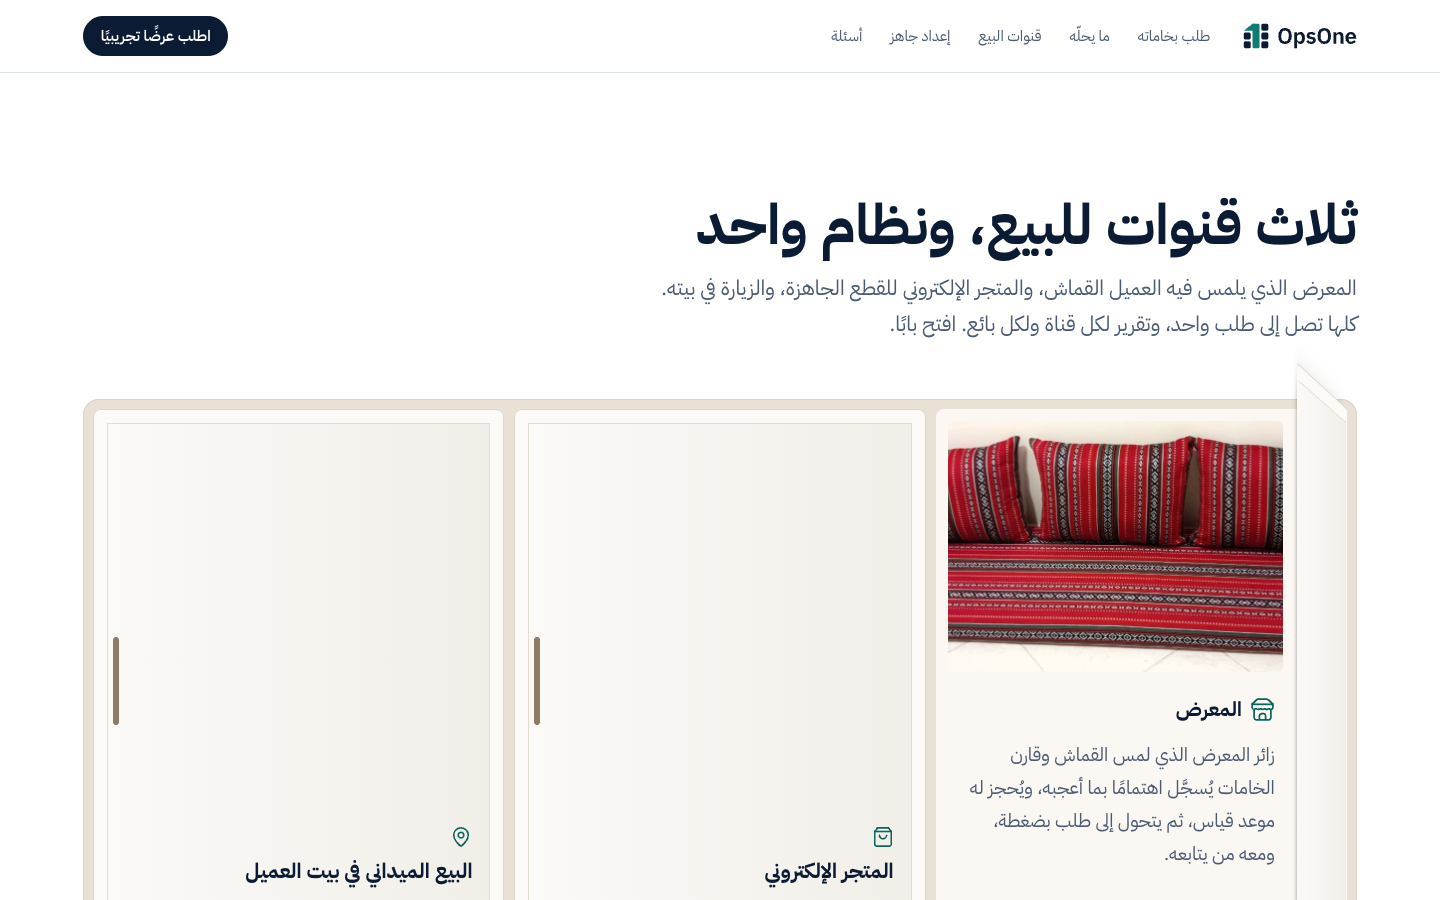
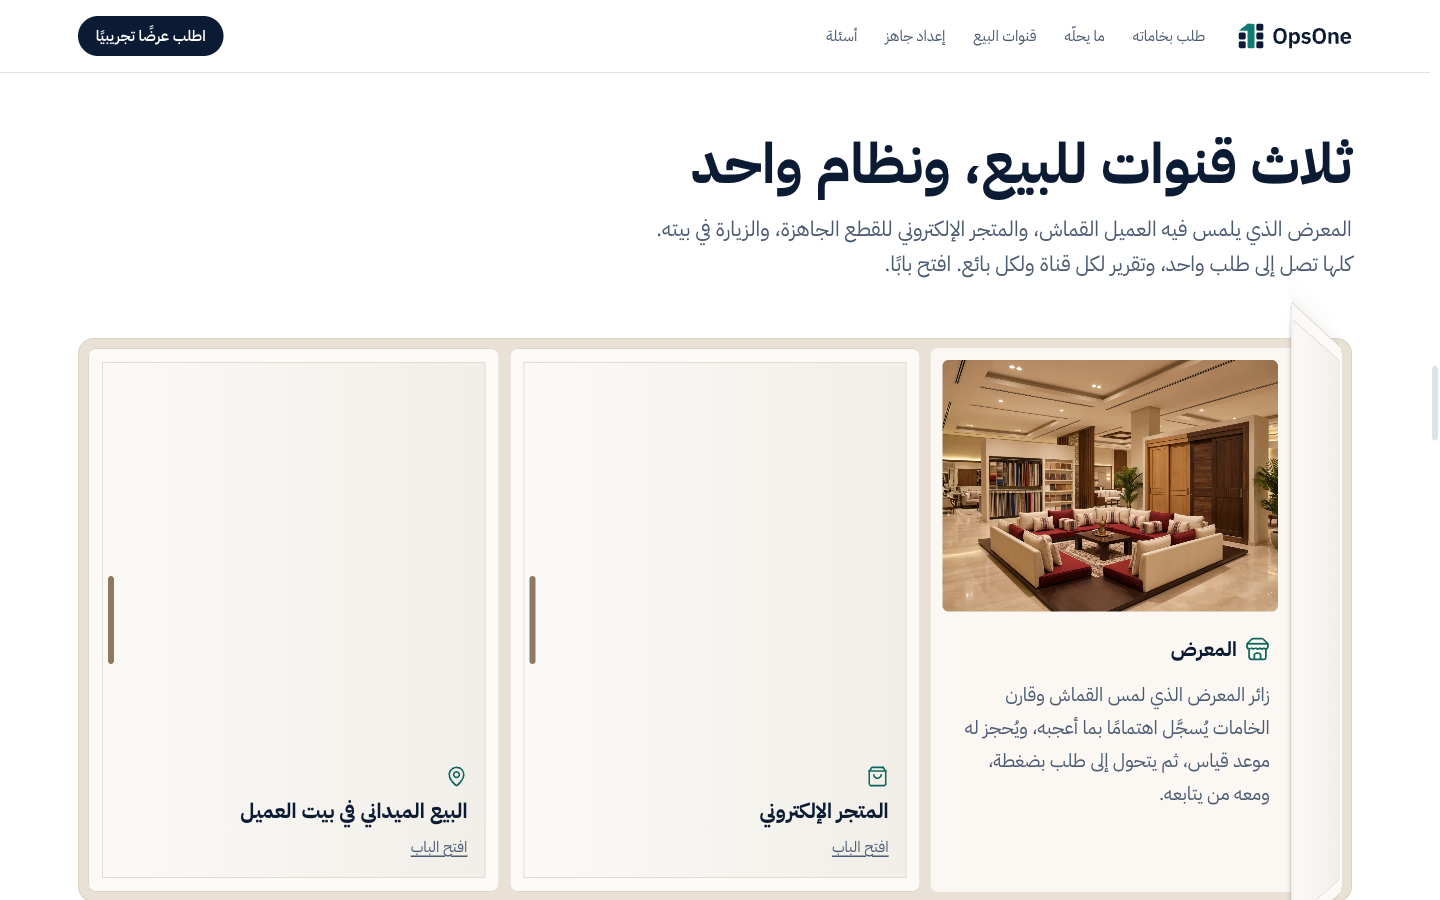
feat(marketing): custom-furniture and fit-out images from Magnific
Replace the page photos on two sector pages with AI images generated on
the Magnific account (Nano Banana 2.1, 2k, 5 x 65 = 325 credits), in the
pattern of the kitchens page:

- custom-furniture: a Saudi villa dressing room (hero, replacing the SVG
  drawing), a majlis and fabric showroom, ready-made pieces on a shelf,
  and a man in a thobe measuring a wardrobe niche.
- villa-fit-out: a finished villa living area with a curved gypsum
  ceiling (hero). Its channels section shows HTML fragments, so no other
  image was needed.

WebP in several widths, OG images recomposed, credits.json updated, old
images removed, home page cards pointed at the new heroes, pages rebuilt
and screenshots refreshed at 1440 and 375.

diff --git a/marketing/site-next/solutions/custom-furniture/index.html b/marketing/site-next/solutions/custom-furniture/index.html
@@ -17,7 +17,7 @@
 <meta property="og:image" content="https://www.opsone.example/solutions/custom-furniture/og-custom-furniture.jpg">
 <meta property="og:image:width" content="1200">
 <meta property="og:image:height" content="630">
-<meta property="og:image:alt" content="OpsOne لمعارض الخزائن والأثاث حسب الطلب: رسم واجهة غرفة ملابس وخط الطلب من القياس إلى التركيب">
+<meta property="og:image:alt" content="OpsOne لمعارض الخزائن والأثاث حسب الطلب: غرفة ملابس مفصّلة في فيلا سعودية وعنوان الصفحة">
 <meta name="twitter:card" content="summary_large_image">
 <meta name="twitter:title" content="برنامج إدارة معارض الخزائن وغرف الملابس والأثاث حسب الطلب | OpsOne">
 <meta name="twitter:description" content="OpsOne لمعارض الخزائن وغرف الملابس والأبواب الخشبية والمجالس والتنجيد: زيارة القياس، واختيار الخامة والقماش، والتصميم بنسخه، وعرض السعر والعقد الموقّع، والعربون، وأمر المصنع، ثم التوصيل والتركيب بتوقيع العميل.">
@@ -29,7 +29,7 @@
 <link rel="manifest" href="../../site.webmanifest">
 <link rel="preload" href="../../assets/fonts/IBMPlexSansArabic-Bold.woff2" as="font" type="font/woff2" crossorigin>
 <link rel="preload" href="../../assets/fonts/IBMPlexSansArabic-Regular.woff2" as="font" type="font/woff2" crossorigin>
-<link rel="preload" as="image" href="img/dressing-elevation.svg" imagesrcset="img/dressing-elevation.svg 1400w" imagesizes="(max-width: 760px) 100vw, 45vw" fetchpriority="high">
+<link rel="preload" as="image" href="img/furniture-hero-1200.webp" imagesrcset="img/furniture-hero-820.webp 820w, img/furniture-hero-1200.webp 1200w, img/furniture-hero-1600.webp 1600w" imagesizes="(max-width: 760px) 100vw, 45vw" fetchpriority="high">
 <link rel="stylesheet" href="../../styles.css">
 <link rel="stylesheet" href="../sector.css">
 <link rel="stylesheet" href="furniture.css">
@@ -63,7 +63,7 @@
         <a class="btn btn--quiet" href="#order">شاهد طلبًا بخاماته</a>
       </div>
     </div>
-    <figure class="shero__photo"><img src="img/dressing-elevation.svg" srcset="img/dressing-elevation.svg 1400w" sizes="(max-width: 760px) 100vw, 45vw" width="1400" height="1050" alt="رسم واجهة غرفة ملابس مفصّلة: تعليق للثياب، وأدراج وسطية بسطح خشبي، وأرفف خلف باب زجاجي منزلق" fetchpriority="high" decoding="async"></figure>
+    <figure class="shero__photo"><img src="img/furniture-hero-1200.webp" srcset="img/furniture-hero-820.webp 820w, img/furniture-hero-1200.webp 1200w, img/furniture-hero-1600.webp 1600w" sizes="(max-width: 760px) 100vw, 45vw" width="1600" height="1195" alt="غرفة ملابس مفصّلة في فيلا سعودية: خزائن بقشرة البلوط وأبواب زجاجية مضاءة، وثياب بيضاء معلّقة، وجزيرة أدراج بسطح خشب الجوز، ونافذة بحاجب هندسي" fetchpriority="high" decoding="async"></figure>
   </div>
   <div class="route" id="route">
     <div class="stations stations--6" role="group" aria-label="رحلة طلب الأثاث ORD-2026-00318" id="stations" style="--n:6">
@@ -157,9 +157,9 @@
   <div class="wrap">
     <div class="sec-head"><h2 class="head" id="channels-title">ثلاث قنوات للبيع، ونظام واحد</h2><p class="lead">المعرض الذي يلمس فيه العميل القماش، والمتجر الإلكتروني للقطع الجاهزة، والزيارة في بيته. كلها تصل إلى طلب واحد، وتقرير لكل قناة ولكل بائع. افتح بابًا.</p></div>
     <ul class="robe">
-      <li class="robe__bay is-open"><div class="robe__inside" id="bay-showroom"><img src="img/majlis-sadu-1000.jpg" width="1000" height="505" alt="مجلس أرضي ووسائد بقماش السدو الأحمر" loading="lazy" decoding="async"><h3><svg class="ic" aria-hidden="true"><use href="#i-store"/></svg>المعرض</h3><p>زائر المعرض الذي لمس القماش وقارن الخامات يُسجَّل اهتمامًا بما أعجبه، ويُحجز له موعد قياس، ثم يتحول إلى طلب بضغطة، ومعه من يتابعه.</p></div><button class="robe__door" type="button" aria-expanded="true" aria-controls="bay-showroom"><span class="robe__panel" aria-hidden="true"></span><span class="robe__handle" aria-hidden="true"></span><span class="robe__label"><svg class="ic" aria-hidden="true"><use href="#i-store"/></svg><b>المعرض</b><small>أغلق الباب</small></span></button></li>
-      <li class="robe__bay"><div class="robe__inside" id="bay-store"><img src="img/fabric-swatches-1000.jpg" width="1000" height="750" alt="عينات أقمشة تنجيد بألوان ونقوش مختلفة" loading="lazy" decoding="async"><h3><svg class="ic" aria-hidden="true"><use href="#i-shopping-bag"/></svg>المتجر الإلكتروني</h3><p>القطع الجاهزة والإكسسوارات تُباع من المخزون نفسه بدفع إلكتروني، ولها مقاسات وألوان. وترسل لعميلك رابط سلة جاهزة أو كوبونًا.</p></div><button class="robe__door" type="button" aria-expanded="false" aria-controls="bay-store"><span class="robe__panel" aria-hidden="true"></span><span class="robe__handle" aria-hidden="true"></span><span class="robe__label"><svg class="ic" aria-hidden="true"><use href="#i-shopping-bag"/></svg><b>المتجر الإلكتروني</b><small>افتح الباب</small></span></button></li>
-      <li class="robe__bay"><div class="robe__inside" id="bay-home"><img src="img/tape-1000.jpg" width="1000" height="750" alt="شريط قياس للخياطة والتنجيد على قماش رمادي" loading="lazy" decoding="async"><h3><svg class="ic" aria-hidden="true"><use href="#i-map-pin"/></svg>البيع الميداني في بيت العميل</h3><p>يوزّع المشرف الفرصة أو طلب الموعد على بائع ميداني، فيزور العميل في بيته، ويسجّل المقاسات وصور المكان من جواله، ثم يرسل عرض السعر ورابط توقيع العقد. ويُحسب الطلب على قناة البيع الميداني، وعمولته للبائع.</p></div><button class="robe__door" type="button" aria-expanded="false" aria-controls="bay-home"><span class="robe__panel" aria-hidden="true"></span><span class="robe__handle" aria-hidden="true"></span><span class="robe__label"><svg class="ic" aria-hidden="true"><use href="#i-map-pin"/></svg><b>البيع الميداني في بيت العميل</b><small>افتح الباب</small></span></button></li>
+      <li class="robe__bay is-open"><div class="robe__inside" id="bay-showroom"><img src="img/furniture-showroom-1200.webp" width="1200" height="896" alt="معرض أثاث فيه جلسة مجلس بقماش كريمي وأحمر ووسائد بنقش السدو، وعينات أقمشة وخشب، وخزانة عرض بأبواب خشبية" loading="lazy" decoding="async"><h3><svg class="ic" aria-hidden="true"><use href="#i-store"/></svg>المعرض</h3><p>زائر المعرض الذي لمس القماش وقارن الخامات يُسجَّل اهتمامًا بما أعجبه، ويُحجز له موعد قياس، ثم يتحول إلى طلب بضغطة، ومعه من يتابعه.</p></div><button class="robe__door" type="button" aria-expanded="true" aria-controls="bay-showroom"><span class="robe__panel" aria-hidden="true"></span><span class="robe__handle" aria-hidden="true"></span><span class="robe__label"><svg class="ic" aria-hidden="true"><use href="#i-store"/></svg><b>المعرض</b><small>أغلق الباب</small></span></button></li>
+      <li class="robe__bay"><div class="robe__inside" id="bay-store"><img src="img/furniture-store-1200.webp" width="1200" height="896" alt="قطع جاهزة على رف خشبي: وسائد مجلس بأقمشة مختلفة، وطاولة جانبية صغيرة، ومقابض خزائن نحاسية وسوداء، ولفائف قماش تنجيد" loading="lazy" decoding="async"><h3><svg class="ic" aria-hidden="true"><use href="#i-shopping-bag"/></svg>المتجر الإلكتروني</h3><p>القطع الجاهزة والإكسسوارات تُباع من المخزون نفسه بدفع إلكتروني، ولها مقاسات وألوان. وترسل لعميلك رابط سلة جاهزة أو كوبونًا.</p></div><button class="robe__door" type="button" aria-expanded="false" aria-controls="bay-store"><span class="robe__panel" aria-hidden="true"></span><span class="robe__handle" aria-hidden="true"></span><span class="robe__label"><svg class="ic" aria-hidden="true"><use href="#i-shopping-bag"/></svg><b>المتجر الإلكتروني</b><small>افتح الباب</small></span></button></li>
+      <li class="robe__bay"><div class="robe__inside" id="bay-home"><img src="img/furniture-measure-1200.webp" width="1200" height="896" alt="يدا رجل بكمّي ثوب أبيض تمدّان شريط قياس داخل تجويف جدار لخزانة مدمجة، وبجانبه جهاز لوحي برسم الخزانة" loading="lazy" decoding="async"><h3><svg class="ic" aria-hidden="true"><use href="#i-map-pin"/></svg>البيع الميداني في بيت العميل</h3><p>يوزّع المشرف الفرصة أو طلب الموعد على بائع ميداني، فيزور العميل في بيته، ويسجّل المقاسات وصور المكان من جواله، ثم يرسل عرض السعر ورابط توقيع العقد. ويُحسب الطلب على قناة البيع الميداني، وعمولته للبائع.</p></div><button class="robe__door" type="button" aria-expanded="false" aria-controls="bay-home"><span class="robe__panel" aria-hidden="true"></span><span class="robe__handle" aria-hidden="true"></span><span class="robe__label"><svg class="ic" aria-hidden="true"><use href="#i-map-pin"/></svg><b>البيع الميداني في بيت العميل</b><small>افتح الباب</small></span></button></li>
     </ul>
   </div>
 </section>

diff --git a/marketing/site-next/solutions/villa-fit-out/index.html b/marketing/site-next/solutions/villa-fit-out/index.html
@@ -17,7 +17,7 @@
 <meta property="og:image" content="https://www.opsone.example/solutions/villa-fit-out/og-villa-fit-out.jpg">
 <meta property="og:image:width" content="1200">
 <meta property="og:image:height" content="630">
-<meta property="og:image:alt" content="OpsOne لشركات التشطيب: سقف جبس بإنارة مخفية وخط المشروع من المعاينة إلى الاستلام">
+<meta property="og:image:alt" content="OpsOne لشركات التشطيب: صالة فيلا منفّذة بسقف جبس منحني وإنارة مخفية، وعنوان الصفحة">
 <meta name="twitter:card" content="summary_large_image">
 <meta name="twitter:title" content="برنامج إدارة شركات التشطيب وتجهيز الفلل والمكاتب | OpsOne">
 <meta name="twitter:description" content="OpsOne لشركات تصميم وتشطيب الفلل والشقق وتجهيز المكاتب والمحلات: المعاينة، واعتماد التصميم بنسخه، وعرض السعر بجدول الكميات، والعقد الموقّع إلكترونيًا، ودفعات مربوطة بمراحل التنفيذ، وأوامر الموردين والمصنع، ثم الاستلام بالصور وتوقيع العميل.">
@@ -29,7 +29,7 @@
 <link rel="manifest" href="../../site.webmanifest">
 <link rel="preload" href="../../assets/fonts/IBMPlexSansArabic-Bold.woff2" as="font" type="font/woff2" crossorigin>
 <link rel="preload" href="../../assets/fonts/IBMPlexSansArabic-Regular.woff2" as="font" type="font/woff2" crossorigin>
-<link rel="preload" as="image" href="img/fitout-hero-1400.jpg" imagesrcset="img/fitout-hero-820.jpg 820w, img/fitout-hero-1400.jpg 1400w" imagesizes="(max-width: 760px) 100vw, 45vw" fetchpriority="high">
+<link rel="preload" as="image" href="img/fitout-hero-1200.webp" imagesrcset="img/fitout-hero-820.webp 820w, img/fitout-hero-1200.webp 1200w, img/fitout-hero-1600.webp 1600w" imagesizes="(max-width: 760px) 100vw, 45vw" fetchpriority="high">
 <link rel="stylesheet" href="../../styles.css">
 <link rel="stylesheet" href="../sector.css">
 <link rel="stylesheet" href="villa.css">
@@ -63,7 +63,7 @@
         <a class="btn btn--quiet" href="#order">شاهد مشروع فيلا</a>
       </div>
     </div>
-    <figure class="shero__photo"><img src="img/fitout-hero-1400.jpg" srcset="img/fitout-hero-820.jpg 820w, img/fitout-hero-1400.jpg 1400w" sizes="(max-width: 760px) 100vw, 45vw" width="1400" height="1050" alt="سقف جبس بورد بمستويات منحنية وإنارة مخفية وسبوتات" fetchpriority="high" decoding="async"></figure>
+    <figure class="shero__photo"><img src="img/fitout-hero-1200.webp" srcset="img/fitout-hero-820.webp 820w, img/fitout-hero-1200.webp 1200w, img/fitout-hero-1600.webp 1600w" sizes="(max-width: 760px) 100vw, 45vw" width="1600" height="1195" alt="صالة فيلا سعودية بعد التشطيب: سقف جبس بمستويات منحنية وإنارة مخفية وسبوتات، وجدار بألواح ترافرتين، وتكسية بشرائح خشب، ونوافذ عالية بحاجب هندسي" fetchpriority="high" decoding="async"></figure>
   </div>
   <div class="route" id="route">
     <div class="stations stations--5" role="group" aria-label="رحلة مشروع الفيلا ORD-2026-00317" id="stations" style="--n:5">

diff --git a/marketing/site-next/index.html b/marketing/site-next/index.html
@@ -642,7 +642,7 @@
         <span class="solution__body"><b>معارض المطابخ</b><span>من زيارة القياس واعتماد التصميم، إلى أمر التصنيع والتركيب والتسليم.</span><span class="solution__go">اقرأ الصفحة <svg class="ic ic--dir" aria-hidden="true"><use href="#i-arrow"/></svg></span></span>
       </a></li>
       <li><a class="solution" href="solutions/custom-furniture/">
-        <img src="solutions/custom-furniture/img/dressing-elevation.svg" width="1400" height="1050" alt="" loading="lazy" decoding="async">
+        <img src="solutions/custom-furniture/img/furniture-hero-820.webp" width="820" height="612" alt="" loading="lazy" decoding="async">
         <span class="solution__body"><b>الخزائن والأثاث حسب الطلب</b><span>غرف الملابس والأبواب والمجالس: من القياس واختيار الخامة، إلى المصنع والتركيب.</span><span class="solution__go">اقرأ الصفحة <svg class="ic ic--dir" aria-hidden="true"><use href="#i-arrow"/></svg></span></span>
       </a></li>
       <li><a class="solution" href="solutions/aluminium-glass/">
@@ -654,7 +654,7 @@
         <span class="solution__body"><b>معارض الستائر والبلايند</b><span>من العينات وقياس كل نافذة، إلى عرض السعر بالمتر وأمر التفصيل والتركيب.</span><span class="solution__go">اقرأ الصفحة <svg class="ic ic--dir" aria-hidden="true"><use href="#i-arrow"/></svg></span></span>
       </a></li>
       <li><a class="solution" href="solutions/villa-fit-out/">
-        <img src="solutions/villa-fit-out/img/fitout-hero-820.jpg" width="820" height="615" alt="" loading="lazy" decoding="async">
+        <img src="solutions/villa-fit-out/img/fitout-hero-820.webp" width="820" height="612" alt="" loading="lazy" decoding="async">
         <span class="solution__body"><b>شركات التشطيب والتجهيز</b><span>من المعاينة واعتماد التصميم، إلى دفعات مربوطة بمراحل التنفيذ والاستلام.</span><span class="solution__go">اقرأ الصفحة <svg class="ic ic--dir" aria-hidden="true"><use href="#i-arrow"/></svg></span></span>
       </a></li>
       <li><a class="solution" href="solutions/flooring-walls-ceilings/">
